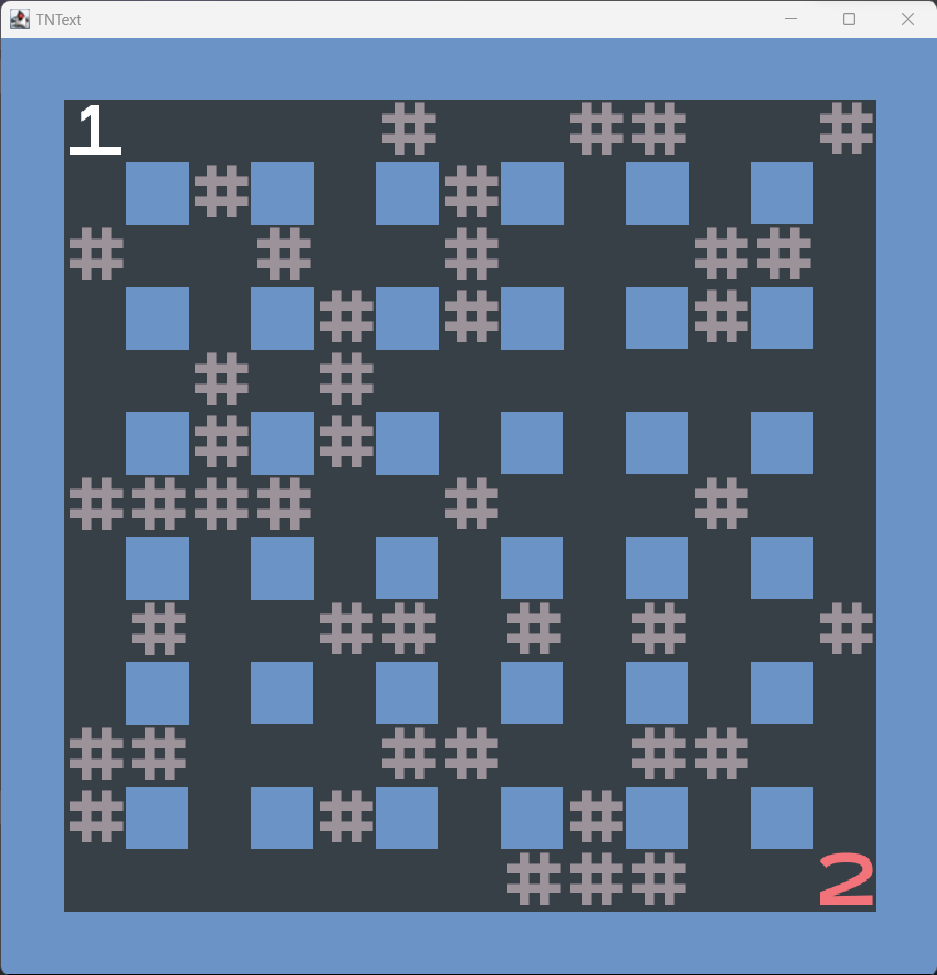
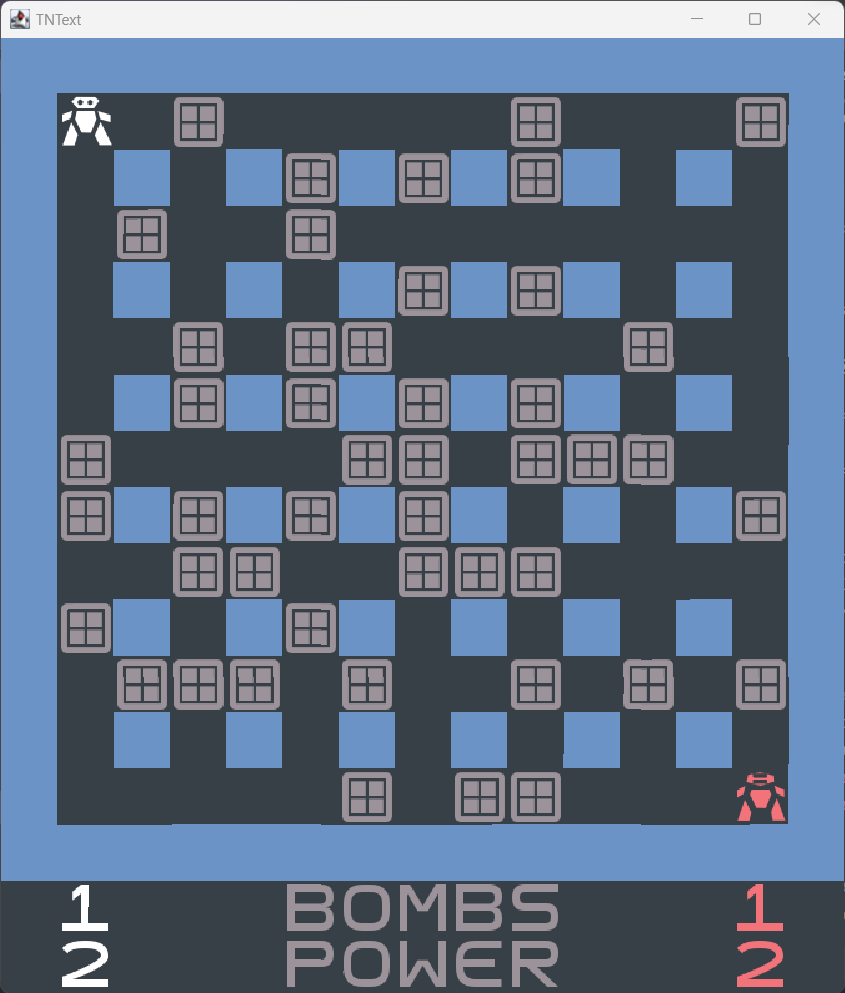
README Update (not yet complete)
Design Patterns and UML missing

diff --git a/README.md b/README.md
@@ -1,8 +1,8 @@
 ## LDTS_1204 - TNText 💣
 
-  In this exciting game, players must attempt to eliminate each other and be the last one standing by placing bombs and avoiding them.
+  In this exciting two-player game, players must attempt to eliminate each other and be the last one standing by placing bombs and avoiding them.
   
-  The players navigate through a grid-based maze where some walls are breakable and others are not. The first ones can drop collectable and temporary power-ups that can increase the players number of bomb slots, enlarge the radius of their placed bombs and even a rare and game-changing twist that grants them increased life resilience.
+  The players navigate through a grid-based maze where some walls are breakable and others are not. The breakable ones drop power-ups that can be collected by the players in order to upgrade their fighting capabilities.
   
   This project was developed by *Afonso Castro* (*up202208026*@fe.up.pt) , *Alexandre Ramos* (*up202208028*@fe.up.pt) and *Francisco Afonso* (*up202208115*@fe.up.pt) for LDTS 2023/24.
 
@@ -10,14 +10,13 @@
 
 - **Movement** - The players can move around the maze.
 - **Unique Maze** - Each time the game is loaded with a randomly generated maze.
+- **Bombs** - The players will be able to place their bombs on the maze in order to open new ground, find power-ups or to eliminate their enemy.
+- **Power-ups** - The two collectable power-ups (PlusBomb and PlusPower) allow a more challenging gameplay, as they respectively increase the number of bomb slots, and the power radius of their placed bombs.
+- **Live Stats** - Visible counters updated in real-time for the players to know information about their active power-ups, like the number of available bombs.
+- **Options Menu** - The players are able to turn on/off the spawn of each upgrade, and the background soundtrack.
+- **Soundtrack** - Music that brings more life to the game.
 
-### PLANNED FEATURES
 
-- **Options Menu** - The players will be able to define some characteristics of the game, such as block frequency or turning on/off some upgrades.
-- **Bombs** - The players will be able to place their bombs on the maze in order to open new ground, find collectables/power-ups or to eliminate their enemy.
-- **Live Stats** - Information updated in real-time for the players to know their active upgrades, time since the beginning of the match, number of available bombs and remaining lifes.
-- **Upgrades** - The players will be able to grab power-ups in order to upgrade bombs, or to gain an extra life. 
-- **Movement Sprites** - The player sprite will adapt to the players movement direction.
 
 
 ![TNTextMapImage1](src/main/resources/images/TNTextMapImage1.png)
@@ -34,15 +33,27 @@ To avoid this problem we started implementing part of the MVC Architectural Patt
 
 **Implementation**
 
-The following image displays the new organization of our classes:
+The following images display the organization of our classes:
 
-![TNTextFolderDistribution](src/main/resources/images/TNTextFolderDistribution.png)
+![TNTextFolderDistribution1](src/main/resources/images/TNTextFolderDistribution1.png)
+![TNTextFolderDistribution2](src/main/resources/images/TNTextFolderDistribution2.png)
+![TNTextFolderDistribution3](src/main/resources/images/TNTextFolderDistribution3.png)
 
-These classes can be found in the following files:
+Some of the most important classes can be found in:
 
+- [Application](src/main/java/com/progr/amador/TNText/Application.java)
+- [Controller](src/main/java/com/progr/amador/TNText/Controller/Controller.java)
+- [Viewer](src/main/java/com/progr/amador/TNText/Viewer/Viewer.java)
+- [TerminalGUI](src/main/java/com/progr/amador/TNText/TerminalGUI.java)
+- [State](src/main/java/com/progr/amador/TNText/State/State.java)
+- [Menu](src/main/java/com/progr/amador/TNText/Model/Menu.java)
+- [Options](src/main/java/com/progr/amador/TNText/Model/Options.java)
 - [Arena](src/main/java/com/progr/amador/TNText/Model/Arena.java)
-- [PlayerController](src/main/java/com/progr/amador/TNText/Controller/Elements/PlayerController.java)
-- [ArenaController](src/main/java/com/progr/amador/TNText/Controller/Elements/ArenaController.java)
+- [Position](src/main/java/com/progr/amador/TNText/Model/Position.java)
+- [Element](src/main/java/com/progr/amador/TNText/Model/Elements/Element.java)
+- [Player](src/main/java/com/progr/amador/TNText/Model/Elements/Player.java)
+- [Bomb](src/main/java/com/progr/amador/TNText/Model/Elements/Bomb.java)
+
 
 **Consequences**
 
